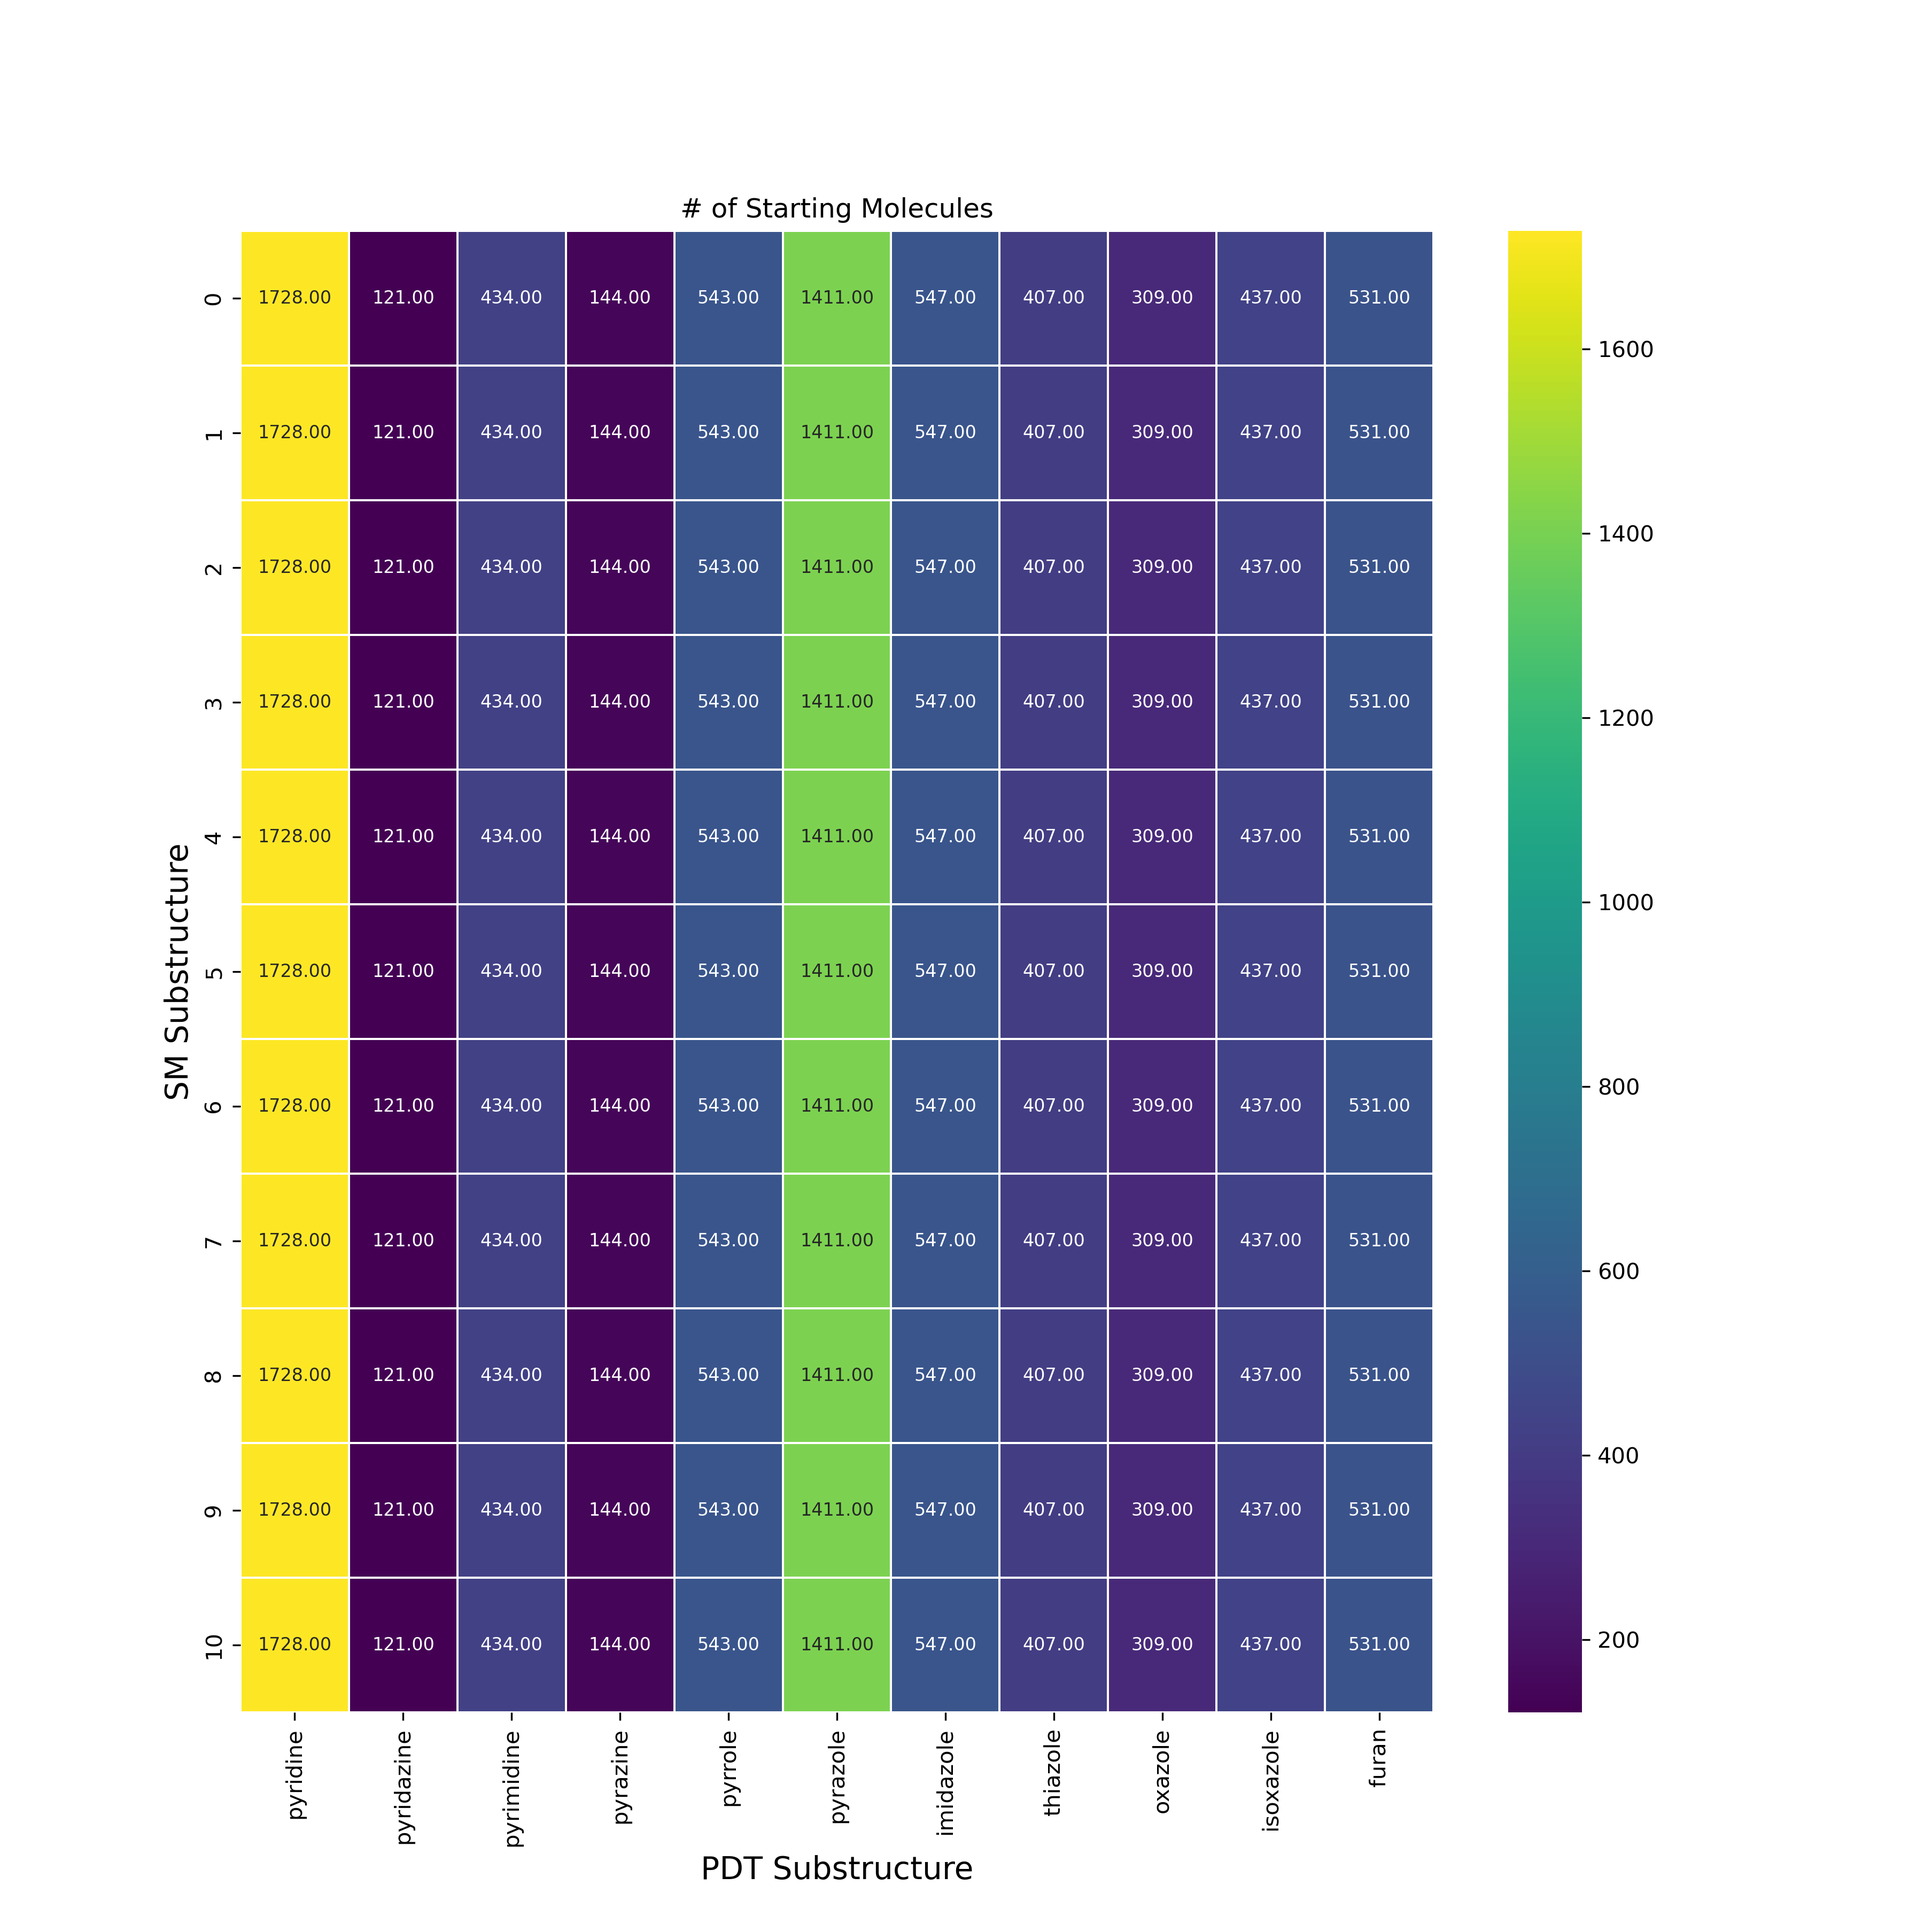
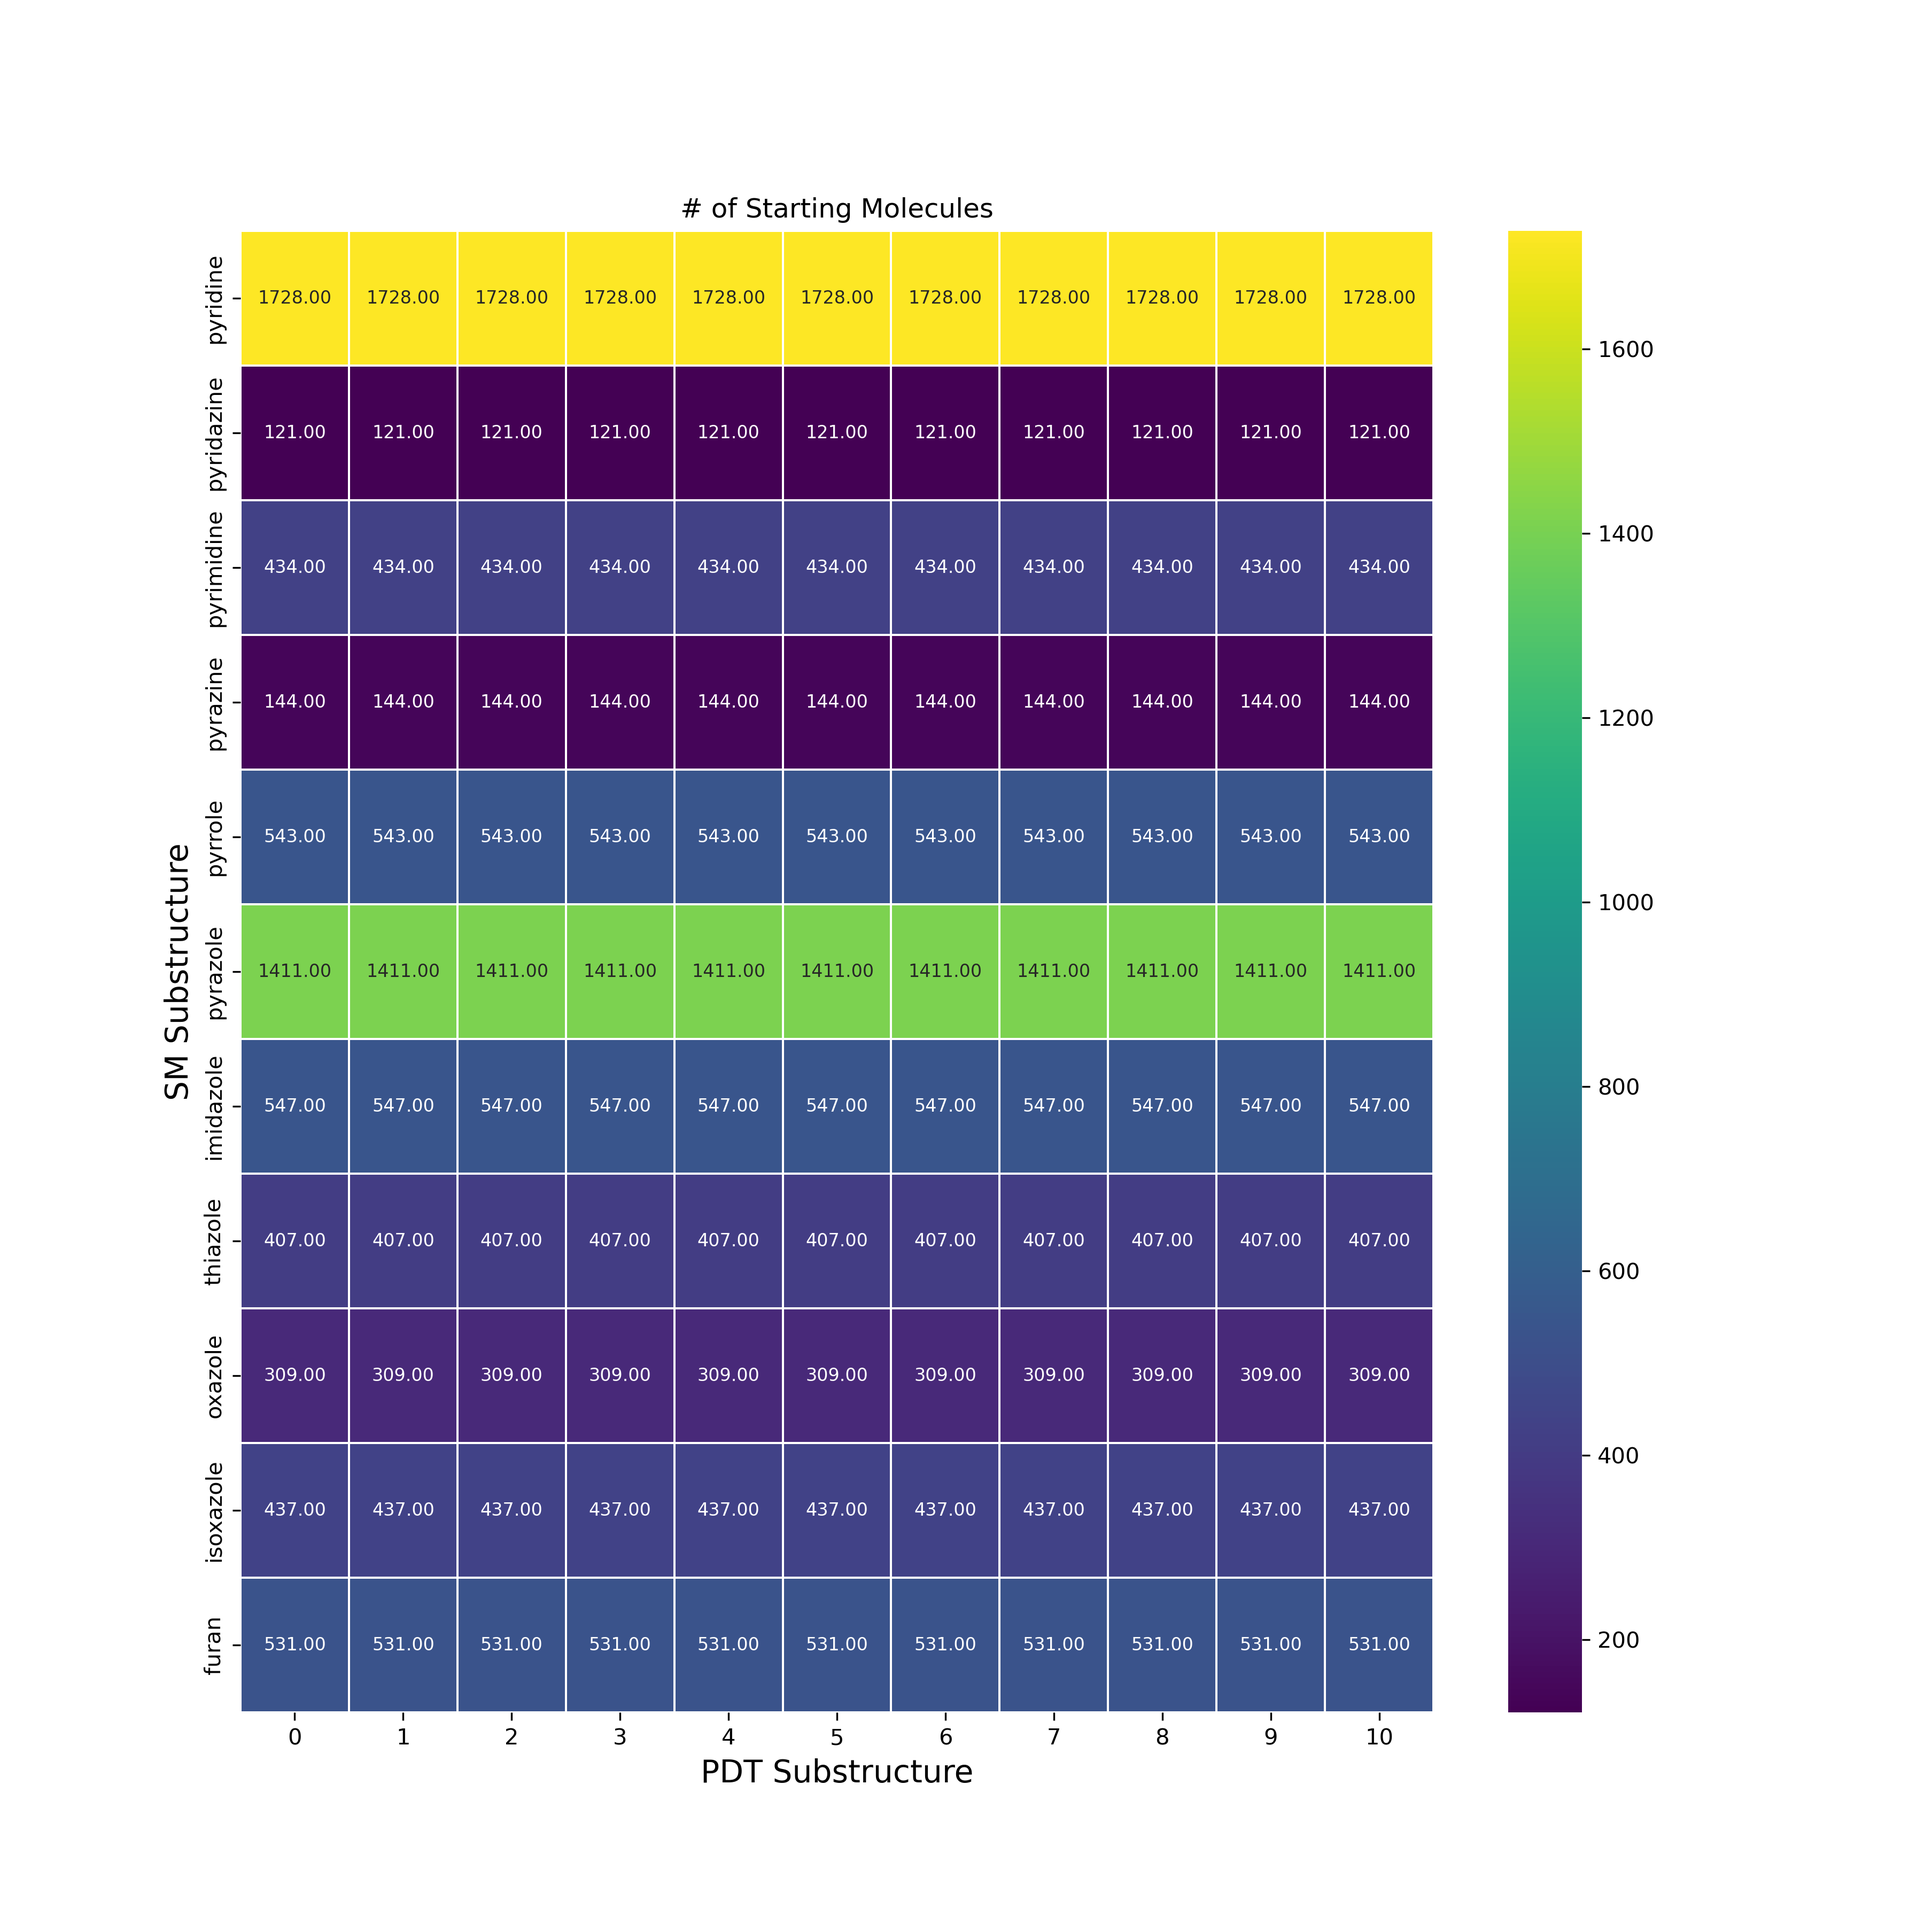
fixed an issue with # sm molecules counting

diff --git a/test_short/heatmaps/gather_all_results.py b/test_short/heatmaps/gather_all_results.py
@@ -50,12 +50,12 @@ def count_sm_molecules(frameworks, sm_filenames):
 
             if filename  == filename_match:
                 opened_file = load_file_as_list(filename)
-                sm_count_arr[0:, idx] = len(opened_file)
+                sm_count_arr[idx, 0:] = len(opened_file)
 
     # converts SM count array to df
     sm_count_df = pd.DataFrame(sm_count_arr,
-                    index = None, 
-                    columns = frameworks)
+                    index = frameworks, 
+                    columns = None)
     
     return sm_count_arr, sm_count_df
 
